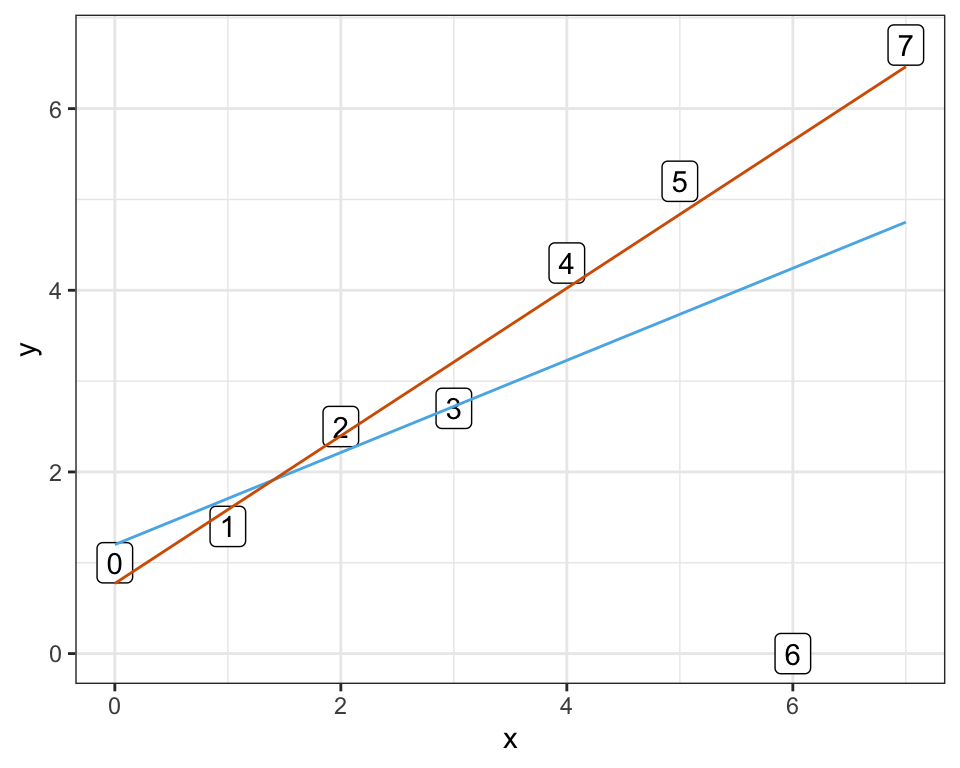
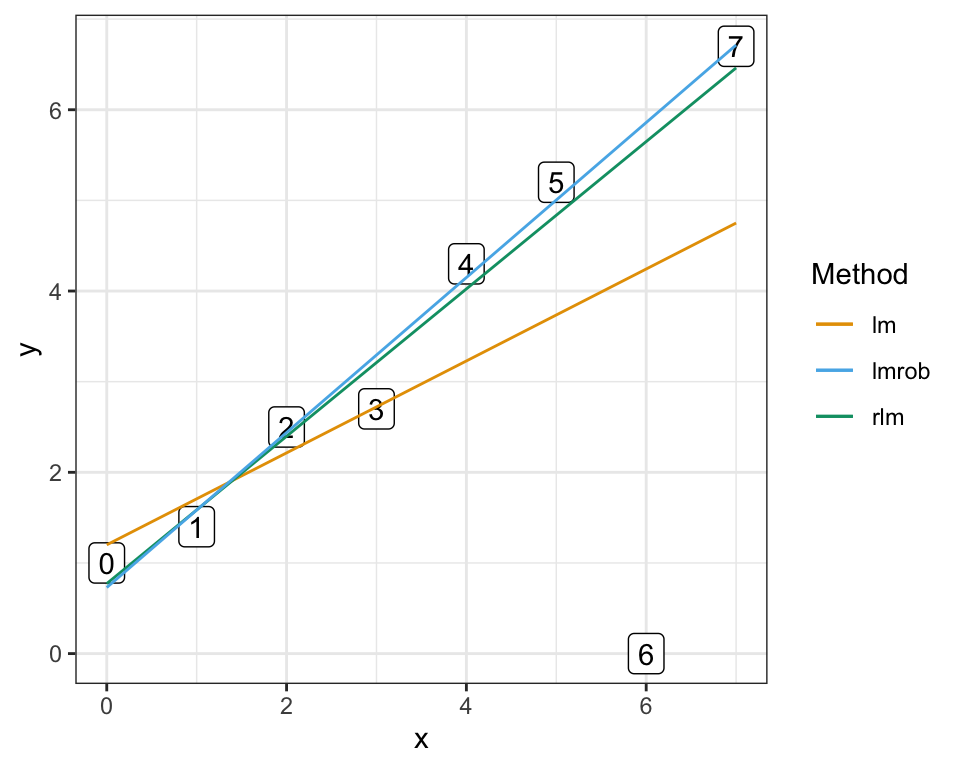
added text

diff --git a/docs/stat-modeling-robust-quantile.html b/docs/stat-modeling-robust-quantile.html
@@ -701,7 +701,7 @@ div.csl-indent {
   </div>
   
 
-</header><p><em>Version vom July 19, 2023 um 12:22:26</em></p>
+</header><p><em>Version vom July 19, 2023 um 12:39:31</em></p>
 <blockquote class="blockquote">
 <p><em>“All models are approximations. Essentially, all models are wrong, but some are useful. However, the approximate nature of the model must always be borne in mind.” — George E. P. Box</em></p>
 </blockquote>
@@ -1328,26 +1328,30 @@ NOTE: If two or more means share the same grouping symbol,
 <div class="sourceCode" id="cb18"><pre class="downlit sourceCode r code-with-copy"><code class="sourceCode R"><span><span class="va">reg_tbl</span> <span class="op">&lt;-</span> <span class="fu">tibble</span><span class="op">(</span>x <span class="op">=</span> <span class="fu"><a href="https://rdrr.io/r/base/c.html">c</a></span><span class="op">(</span><span class="fl">0</span>, <span class="fl">1</span>, <span class="fl">2</span>, <span class="fl">3</span>, <span class="fl">4</span>, <span class="fl">5</span>, <span class="fl">6</span>, <span class="fl">7</span><span class="op">)</span>,</span>
 <span>                  y <span class="op">=</span> <span class="fu"><a href="https://rdrr.io/r/base/c.html">c</a></span><span class="op">(</span><span class="fl">1</span>, <span class="fl">1.4</span>, <span class="fl">2.5</span>, <span class="fl">2.7</span>, <span class="fl">4.3</span>, <span class="fl">5.2</span>, <span class="fl">0</span>, <span class="fl">6.7</span><span class="op">)</span><span class="op">)</span></span></code><button title="In die Zwischenablage kopieren" class="code-copy-button"><i class="bi"></i></button></pre></div>
 </div>
-<p>Wir rechnen jetzt einmal eine gewöhnliche lineare Regression mit der Funktion <code><a href="https://rdrr.io/r/stats/lm.html">lm()</a></code> und eine robuste Regression mit dem Paket <code>MASS</code> und der Funtkion <code>rlm()</code>. Es gibt noch das R Paket <code>robustbase</code> und der Funktion <code>rq()</code> aber wir können die Ergebnisse dann nicht in <code>emmeans</code> weiter nutzen, was uns dann etwas den Weg mit versperrt. Wir können aber für die multiplen Mittelwertsvergleich mit <code>robustbase</code> das R Paket <code>multcomp</code> nutzen. Aber fangen wir hier erstmal mit dem Beispiel an.</p>
+<p>Wir rechnen jetzt einmal eine gewöhnliche lineare Regression mit der Funktion <code><a href="https://rdrr.io/r/stats/lm.html">lm()</a></code> und eine robuste Regression mit dem Paket <code>MASS</code> und der Funtkion <code>rlm()</code>. Es gibt noch das R Paket <code>robustbase</code> und der Funktion <code>rq()</code> aber wir können die Ergebnisse dann nicht in <code>emmeans</code> weiter nutzen, was uns dann etwas den Weg mit versperrt. Wir können aber für die multiplen Mittelwertsvergleich mit <code>robustbase</code> das R Paket <code>multcomp</code> nutzen. Aber fangen wir hier erstmal mit dem Beispiel an und vergleichen die beiden Implementierungen der robusten Regression zu der gewöhnlichen Regression</p>
 <div class="cell">
 <div class="sourceCode" id="cb19"><pre class="downlit sourceCode r code-with-copy"><code class="sourceCode R"><span><span class="va">reg_lm_fit</span> <span class="op">&lt;-</span> <span class="fu"><a href="https://rdrr.io/r/stats/lm.html">lm</a></span><span class="op">(</span><span class="va">y</span> <span class="op">~</span> <span class="va">x</span>, <span class="va">reg_tbl</span><span class="op">)</span></span>
-<span><span class="va">reg_rlm_fit</span> <span class="op">&lt;-</span> <span class="fu">rlm</span><span class="op">(</span><span class="va">y</span> <span class="op">~</span> <span class="va">x</span>, <span class="va">reg_tbl</span><span class="op">)</span></span></code><button title="In die Zwischenablage kopieren" class="code-copy-button"><i class="bi"></i></button></pre></div>
+<span><span class="va">reg_rlm_fit</span> <span class="op">&lt;-</span> <span class="fu">rlm</span><span class="op">(</span><span class="va">y</span> <span class="op">~</span> <span class="va">x</span>, <span class="va">reg_tbl</span><span class="op">)</span></span>
+<span><span class="va">reg_lmrob_fit</span> <span class="op">&lt;-</span> <span class="fu">lmrob</span><span class="op">(</span><span class="va">y</span> <span class="op">~</span> <span class="va">x</span>, <span class="va">reg_tbl</span><span class="op">)</span></span></code><button title="In die Zwischenablage kopieren" class="code-copy-button"><i class="bi"></i></button></pre></div>
 </div>
-<p><a href="#fig-stat-robust-demo">Abbildung&nbsp;<span>47.4</span></a></p>
+<p>In der <a href="#fig-stat-robust-demo">Abbildung&nbsp;<span>47.4</span></a> sehen wir einmal den Unterschied zwischen den beiden robusten Regressionen und der gewöhnlichen Regression.</p>
 <div class="cell" data-layout-align="center">
 <div class="sourceCode" id="cb20"><pre class="downlit sourceCode r code-with-copy"><code class="sourceCode R"><span><span class="fu">ggplot</span><span class="op">(</span><span class="va">reg_tbl</span>, <span class="fu">aes</span><span class="op">(</span><span class="va">x</span>, <span class="va">y</span>, label <span class="op">=</span> <span class="va">x</span><span class="op">)</span><span class="op">)</span> <span class="op">+</span></span>
 <span>  <span class="fu">theme_bw</span><span class="op">(</span><span class="op">)</span> <span class="op">+</span></span>
 <span>  <span class="fu">geom_label</span><span class="op">(</span><span class="op">)</span> <span class="op">+</span></span>
-<span>  <span class="fu">geom_line</span><span class="op">(</span><span class="fu">aes</span><span class="op">(</span>y <span class="op">=</span> <span class="fu"><a href="https://rdrr.io/r/stats/predict.html">predict</a></span><span class="op">(</span><span class="va">reg_lm_fit</span><span class="op">)</span><span class="op">)</span>, color <span class="op">=</span> <span class="va">cbbPalette</span><span class="op">[</span><span class="fl">3</span><span class="op">]</span><span class="op">)</span> <span class="op">+</span></span>
-<span>  <span class="fu">geom_line</span><span class="op">(</span><span class="fu">aes</span><span class="op">(</span>y <span class="op">=</span> <span class="fu"><a href="https://rdrr.io/r/stats/predict.html">predict</a></span><span class="op">(</span><span class="va">reg_rlm_fit</span><span class="op">)</span><span class="op">)</span>, color <span class="op">=</span> <span class="va">cbbPalette</span><span class="op">[</span><span class="fl">7</span><span class="op">]</span><span class="op">)</span> </span></code><button title="In die Zwischenablage kopieren" class="code-copy-button"><i class="bi"></i></button></pre></div>
+<span>  <span class="fu">geom_line</span><span class="op">(</span><span class="fu">aes</span><span class="op">(</span>y <span class="op">=</span> <span class="fu"><a href="https://rdrr.io/r/stats/predict.html">predict</a></span><span class="op">(</span><span class="va">reg_lm_fit</span><span class="op">)</span>, colour <span class="op">=</span> <span class="st">"lm"</span><span class="op">)</span><span class="op">)</span> <span class="op">+</span></span>
+<span>  <span class="fu">geom_line</span><span class="op">(</span><span class="fu">aes</span><span class="op">(</span>y <span class="op">=</span> <span class="fu"><a href="https://rdrr.io/r/stats/predict.html">predict</a></span><span class="op">(</span><span class="va">reg_rlm_fit</span><span class="op">)</span>, colour <span class="op">=</span> <span class="st">"rlm"</span><span class="op">)</span><span class="op">)</span> <span class="op">+</span></span>
+<span>  <span class="fu">geom_line</span><span class="op">(</span><span class="fu">aes</span><span class="op">(</span>y <span class="op">=</span> <span class="fu"><a href="https://rdrr.io/r/stats/predict.html">predict</a></span><span class="op">(</span><span class="va">reg_lmrob_fit</span><span class="op">)</span>, colour <span class="op">=</span> <span class="st">"lmrob"</span><span class="op">)</span><span class="op">)</span> <span class="op">+</span></span>
+<span>  <span class="fu">scale_colour_okabeito</span><span class="op">(</span><span class="op">)</span> <span class="op">+</span></span>
+<span>  <span class="fu">labs</span><span class="op">(</span>colour <span class="op">=</span> <span class="st">"Method"</span><span class="op">)</span></span></code><button title="In die Zwischenablage kopieren" class="code-copy-button"><i class="bi"></i></button></pre></div>
 <div class="cell-output-display">
 <div id="fig-stat-robust-demo" class="quarto-figure quarto-figure-center anchored">
 <figure class="figure"><p><img src="stat-modeling-robust-quantile_files/figure-html/fig-stat-robust-demo-1.png" class="img-fluid figure-img" width="480"></p>
-<figcaption class="figure-caption">Abbildung&nbsp;47.4— Scatterplot für den Unterschied zwischen einer robusten und gewöhnlichen Regression. Die gewöhnliche Regression ist blau, die robuste Regression rot.</figcaption></figure>
+<figcaption class="figure-caption">Abbildung&nbsp;47.4— Scatterplot für den Unterschied zwischen einer robusten und gewöhnlichen Regression. Die gewöhnliche Regression ist gelb, die robuste Regression MASS::rlm() grün und die robuste Regression robustbase::lmrob() blau.</figcaption></figure>
 </div>
 </div>
 </div>
-<p>In unserem Beispiel ist die Beobachtung 6 der Ausreißer. In einer normalen Regression erhält diese Beobachtung sehr viel Gewicht. Die Gerade wird dadurch nach unten gezogen. In einer robusten Regression erhält eine Beobachtung mit einem großen Residuum sehr wenig Gewicht, in diesem konstruierten Beispiel fast 0. Daher können wir sagen, das unser Modell <em>robust</em> gegen Ausreißer ist.</p>
+<p>In unserem Beispiel ist die sechste Beobachtung der Ausreißer. Die <code>lm</code>-Regression wird durch den Wert 0 der sechsten Beobachtung nach unten gezogen. Die sechste Beobachtung erhält ein viel zu starkes Gewicht in der gewöhnlichen Regression im Bezug auf den Verlauf der Geraden. Die robusten Regressionen geben der sechsten Beobachtung hingegen ein viel geringeres Gewicht, so dass die Beobachtung keinen Einfluss auf den Verlauf der Geraden hat. In einer robusten Regression erhält eine Beobachtung mit einem großen Residuum sehr wenig Gewicht, in diesem konstruierten Beispiel fast 0. Daher können wir sagen, das unser Modell <em>robust</em> gegen Ausreißer ist.</p>
 <p>Okay, soweit lernt es jeder und die Idee der robusten Regression ist auch ziemlich einleuchtend. Aber in der Wissenschaft zeichnen wir keine Gerade durch Punkte und freuen uns drüber, dass die eine gerade besser passt als die andere Gerade.</p>
 <p>Unbeliebt?</p>
 <p><a href="https://en.wikipedia.org/wiki/Robust_regression#History_and_unpopularity_of_robust_regression">History and unpopularity of robust regression</a></p>
@@ -1469,12 +1473,12 @@ NOTE: If two or more means share the same grouping symbol,
 <pre><code># A tibble: 6 × 5
   contrast                     estimate conf.low conf.high adj.p.value
   &lt;chr&gt;                           &lt;dbl&gt;    &lt;dbl&gt;     &lt;dbl&gt;       &lt;dbl&gt;
-1 Erde+Fließ - Erde              1.68      -1.79      5.15       0.592
-2 Erde+Perlite - Erde            1.64      -2.38      5.65       0.715
-3 Perlite+Fließ - Erde           4.84      -1.33     11.0        0.180
-4 Erde+Perlite - Erde+Fließ     -0.0436    -2.86      2.77       1.00 
-5 Perlite+Fließ - Erde+Fließ     3.16      -2.51      8.83       0.472
-6 Perlite+Fließ - Erde+Perlite   3.21      -2.78      9.19       0.508</code></pre>
+1 Erde+Fließ - Erde              1.68      -1.79      5.14       0.592
+2 Erde+Perlite - Erde            1.63      -2.38      5.64       0.717
+3 Perlite+Fließ - Erde           4.84      -1.35     11.0        0.182
+4 Erde+Perlite - Erde+Fließ     -0.0439    -2.87      2.78       1.00 
+5 Perlite+Fließ - Erde+Fließ     3.17      -2.53      8.86       0.474
+6 Perlite+Fließ - Erde+Perlite   3.21      -2.80      9.22       0.509</code></pre>
 </div>
 </div>
 <p>Wir sehen, dass wir mit der Adjustierung keinen signifikanten Unterschied zwischen den Bodensorten finden. Im Folgenden dann noch die Darstellung im <em>compact letter display</em>, wo wir etwas rumfrickeln müssen damit die Funktion <code>multcompLetters()</code> auch die Kontraste aus der Funktion <code>glht()</code> akzeptiert. Aber das haben wir dann alles zusammen.</p>
@@ -1502,7 +1506,7 @@ NOTE: If two or more means share the same grouping symbol,
          "ab"          "ab"           "a"           "b" </code></pre>
 </div>
 </div>
-<p>Und wenn man eine andere Funktion nutzt, dann kommen auch leicht andere Ergebnisse raus. Bei den rohen <span class="math inline">\(p\)</span>-Werten haben wir jetzt etwas andere Unterschiede. Aber das liegt auch an den sehr ähnlichen Mittelwerten. So groß sind die Unterschiede nicht, so dass wir hier natürlich durch unterschiedliche Algorithmen leicht andere Ergebnisse kriegen. Wieder ein Grund die <span class="math inline">\(p\)</span>-Werte zu adjustieren.</p>
+<p>Und wenn man eine andere Funktion nutzt, dann kommen auch leicht andere Ergebnisse raus. Bei den rohen <span class="math inline">\(p\)</span>-Werten haben wir jetzt etwas andere Unterschiede. Aber das liegt auch an den sehr ähnlichen Mittelwerten. So groß sind die Unterschiede nicht, so dass wir hier natürlich durch unterschiedliche Algorithmen leicht andere Ergebnisse kriegen. Wieder ein Grund die <span class="math inline">\(p\)</span>-Werte zu adjustieren um dann auch konsistente Ergebnisse zu haben.</p>
 </section></section><section id="sec-quantile-reg" class="level2 page-columns page-full" data-number="47.5"><h2 data-number="47.5" class="anchored" data-anchor-id="sec-quantile-reg">
 <span class="header-section-number">47.5</span> Quantilsregression</h2>
 <p>Jetzt wollen wir uns als Spezialfall der robusten Regression einmal die Quantilesregression anschauen. Wir der Name schon sagt, optimiert die Quantilregression nicht über den Mittelwert und die Standardabweichung als quadratische Abweichungen sondern über den Median und die absoluten Abweichungen. Wir haben es also hier mit einer Alternativen zu der gewöhnlichen Regression zu tun. Das schöne an der Quantilesregression ist, dass der Median nicht so anfällig gegenüber Ausreißern ist. Hier haben wir einen Vorteil. Wir können theoretisch auch andere Quantile als Referenzwert nehmen und die absoluten Abstände berechnen. Wenn wir aber später dann mit <code>emmeans</code> die Gruppenvergleiche rechnen wollen, geht das nur über den Median.</p>
@@ -1671,7 +1675,7 @@ Lower triangle: Comparisons (estimate)   earlier vs. later</code></pre>
 <td style="text-align: left;"></td>
 <td style="text-align: center;">s.e. = 1.801</td>
 <td style="text-align: center;">s.e. = 1.888</td>
-<td style="text-align: center;">s.e. = 1.366</td>
+<td style="text-align: center;">s.e. = 1.365</td>
 <td style="text-align: center;">s.e. = 0.701</td>
 </tr>
 <tr class="even">
